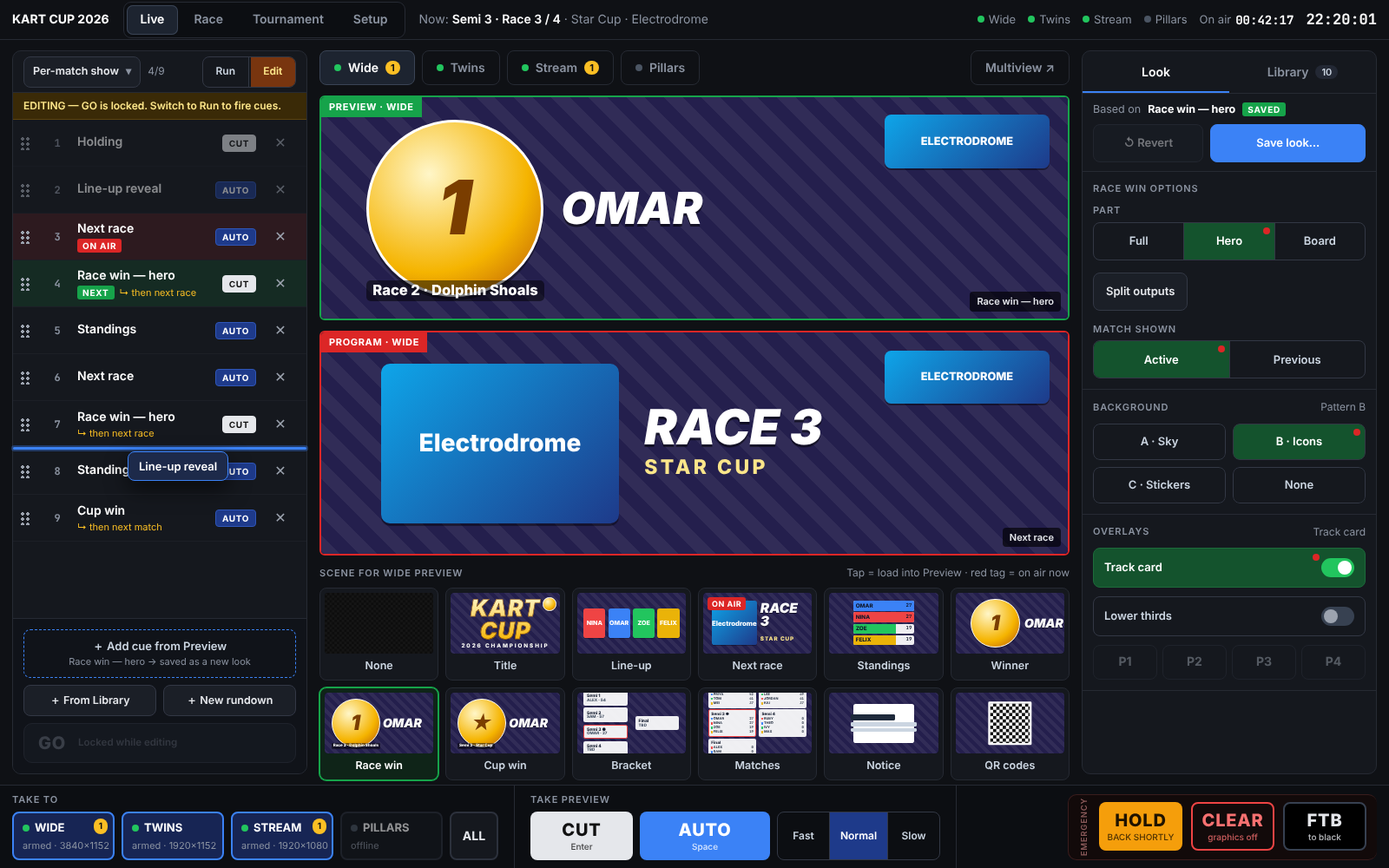
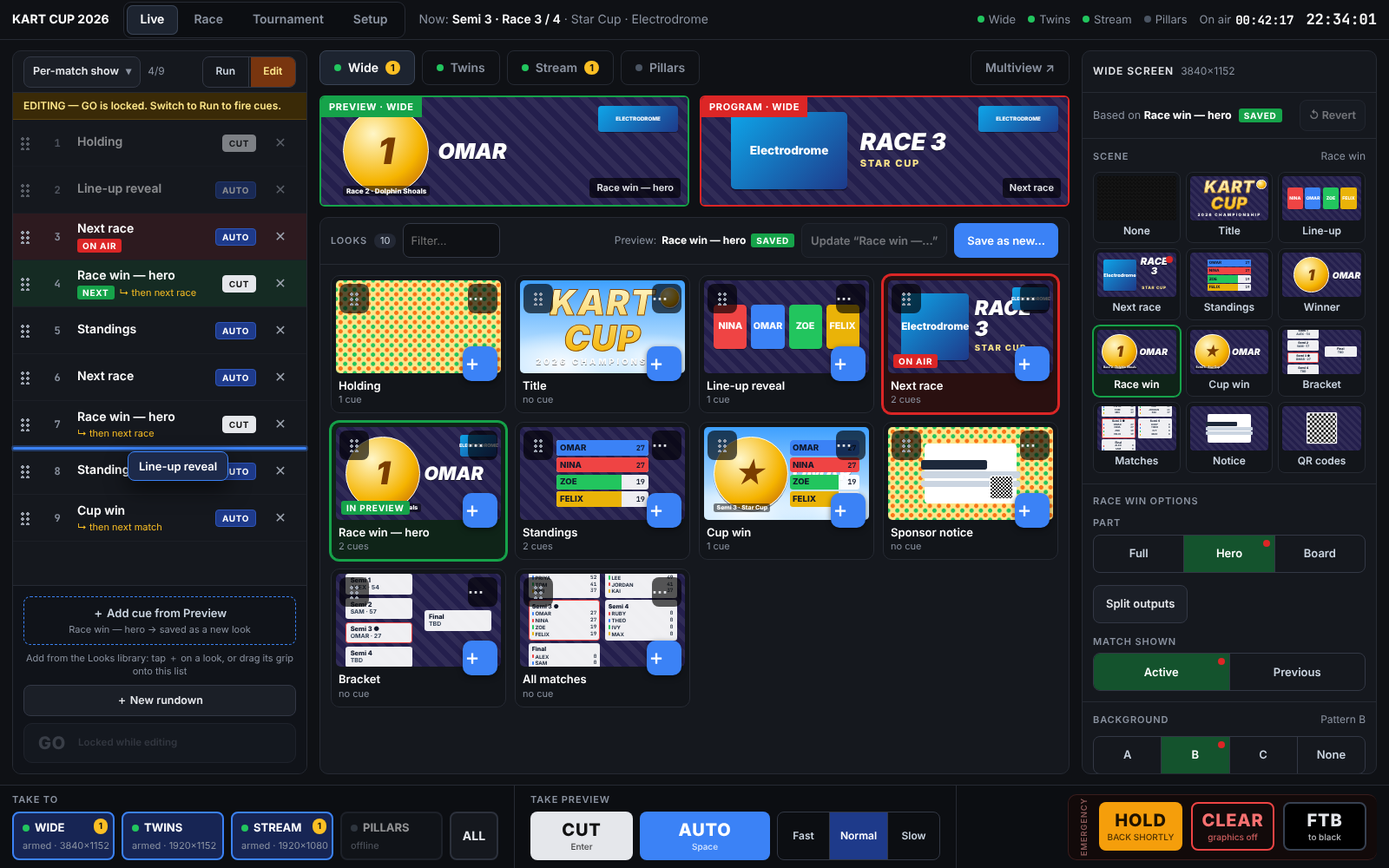
Control demo: Option A puts the Looks library under the monitors and the per-screen scene editor on the right
- centre: output tabs, Preview/Program side by side, then the Looks library (filter, Preview Modified/Saved, two-tap Update, Save as new, inline manage bar)
- right: selected screen's scenes, the chosen scene's options, Background, Overlays; save form swaps in and out
- tests, capture script, guide text and docs updated (110 checks)

Claude-Session: https://claude.ai/code/session_01AQgEcSFu68EFYDYZBkP3T7

diff --git a/docs/mockups/ui/demo/layout-a.js b/docs/mockups/ui/demo/layout-a.js
@@ -1,5 +1,5 @@
 'use strict'
-/* Layout A — Rundown-first: rundown rail (left) · monitors + scene strip (centre) · Look / Library / Save inspector (right). */
+/* Layout A — Rundown-first: rundown rail (left) · monitors + Looks library (centre) · this screen's scenes and their options (right). */
 
 const takeLbl = (t) => (t === 'cut' ? 'CUT' : t === 'auto' ? 'AUTO' : 'RECALL')
 const AFTERS = [['', 'Nothing'], ['nextRace', 'Then next race'], ['nextMatch', 'Then next match'], ['resetStack', 'Then reset rundown']]
@@ -52,49 +52,53 @@ function rundownRail() {
     ? `<div class="gofoot"><button class="go ${stby ? '' : 'off'}" data-act="go" ${stby ? '' : 'disabled'}><span class="gl">GO</span><span class="gt"><small>${stby ? `Fires cue ${r.pvw + 1} · ${takeLbl(stby.take)}` : 'End of rundown'}</small><b>${stby ? esc(lookById(stby.lookId)?.name ?? '') : 'Rewind to start again'}</b></span><kbd>G</kbd></button>
         <div class="gnav"><button class="btn sm" data-act="back">◀ Back</button><button class="btn sm" data-act="skip">Skip ▶</button><button class="btn sm" data-act="rewind">Rewind</button></div></div>`
     : `<div class="gofoot"><button class="btn ghost addprev" data-act="addprev"><span>＋ Add cue from Preview</span><span class="dim sm">${esc(lookById(S.loadedLookId)?.name ?? 'New look')}${isModified() ? ' · modified' : ''} → saved as a new look</span></button>
-        <div class="gnav" style="grid-template-columns:1fr 1fr"><button class="btn sm" data-act="rtab" data-t="library">＋ From Library</button><button class="btn sm" data-act="rdnew">＋ New rundown</button></div>
+        <div class="dim sm" style="text-align:center">Add from the Looks library: tap ＋ on a look, or drag its grip onto this list</div><button class="btn sm" data-act="rdnew">＋ New rundown</button>
         <button class="go off" style="height:46px" disabled><span class="gl" style="font-size:20px">GO</span><span class="gt"><small>Locked while editing</small></span></button></div>`
   return `<section class="panel">${head}${S.rdMenu ? rdMenu() : ''}${S.edit ? '<div class="editbar">EDITING — GO is locked. Switch to Run to fire cues.</div>' : ''}<div class="grow rdlist" data-drop="rundown" style="overflow:auto;position:relative">${rows}</div>${foot}</section>`
 }
 
-/* ── centre ── */
+/* ── centre: monitors, then the Looks library (saved presets) ── */
+const trunc = (s, n = 12) => (s.length > n ? s.slice(0, n) + '…' : s)
+function manageBar(l) {
+  const n = usedBy(l.id), del = S.confirm === 'del:' + l.id
+  return `<div class="ph libh manage"><b class="mname">${S.libRename === l.id ? `<input class="field inp sm" data-in="libren" value="${esc(l.name)}" maxlength="40" aria-label="Look name">` : esc(l.name)}</b><span class="dim sm">${n ? `in ${n} cue${n > 1 ? 's' : ''}` : 'not in a rundown'}</span>
+    <span class="mact"><button class="btn sm" data-act="libren" data-id="${l.id}">${S.libRename === l.id ? 'Save name' : 'Rename'}</button><button class="btn sm" data-act="libdup" data-id="${l.id}">Duplicate</button><button class="btn sm" data-act="libadd" data-id="${l.id}">＋ Add as cue</button>
+    <button class="btn sm ${del ? 'amberb' : 'danger'}" data-act="libdel" data-id="${l.id}">${del ? `Tap again${n ? ` · ${n} cue${n > 1 ? 's' : ''}` : ''}` : 'Delete'}</button><button class="btn sm acc" data-act="libmenu" data-id="${l.id}">Done</button></span></div>`
+}
+function libraryPanel() {
+  const look = lookById(S.loadedLookId), mod = isModified(), used = look ? usedBy(look.id) : 0
+  const f = S.libFilter.trim().toLowerCase(), list = S.looks.filter((l) => l.name.toLowerCase().includes(f)), menuLook = S.libMenu ? lookById(S.libMenu) : null
+  const upd = S.confirm === 'upd'
+    ? `<button class="btn amberb updb" data-act="upd"><span>Tap again to overwrite<br><small>affects ${used} cue${used === 1 ? '' : 's'}</small></span></button>`
+    : `<button class="btn updb" data-act="upd" ${look && mod ? '' : 'disabled'}>Update “${esc(trunc(look?.name ?? '', 10))}”</button>`
+  const head = menuLook ? manageBar(menuLook)
+    : `<div class="ph libh"><span class="lab">Looks</span><span class="dim cnt">${S.looks.length}</span><input class="field inp sm libf" data-in="libfilter" placeholder="Filter…" value="${esc(S.libFilter)}" aria-label="Filter looks">
+      <span class="libst">Preview: <b>${esc(look?.name ?? 'unsaved')}</b> ${mod ? '<span class="tag mod">● MODIFIED</span>' : '<span class="tag pvw">SAVED</span>'}</span>${upd}<button class="btn acc" data-act="saveopen">Save as new…</button></div>`
+  const tiles = list.map((l) => { const pvw = l.id === S.loadedLookId, pgm = l.id === S.programLookId, n = usedBy(l.id)
+    return `<div class="ltile ${pvw ? 'inpvw' : ''} ${pgm ? 'airtile' : ''} ${S.libMenu === l.id ? 'managing' : ''}"><button class="ltb" data-act="loadlook" data-id="${l.id}" aria-label="Load ${esc(l.name)} into Preview">${thumb(l, pgm ? '<span class="tag pgm">ON AIR</span>' : pvw ? '<span class="tag pvw">IN PREVIEW</span>' : '')}<span class="ltn">${esc(l.name)}</span><span class="lsub">${n ? `${n} cue${n > 1 ? 's' : ''}` : 'no cue'}</span></button>
+      <span class="gripc" data-drag="look:${l.id}" aria-label="Drag ${esc(l.name)} onto the rundown"><i></i></span><button class="lmore" data-act="libmenu" data-id="${l.id}" aria-label="Manage ${esc(l.name)}">⋯</button>${S.edit ? `<button class="ladd" data-act="libadd" data-id="${l.id}" aria-label="Add ${esc(l.name)} as a cue">＋</button>` : ''}</div>` }).join('')
+  return `<section class="panel libp">${head}<div class="grow libgrid">${tiles || '<div class="empty" style="grid-column:1/-1"><b>No looks yet</b><span>Set up Preview with the scene editor, then tap “Save as new…”.</span></div>'}</div></section>`
+}
 function centreA() {
-  const o = out(S.outSel), l = S.layers[o.id], pg = S.program[o.id]?.layers ?? blank()
-  const tiles = SCENES.map(([id, label]) => `<button class="scn ${l.scene === id ? 'sel' : ''} ${pg.scene === id ? 'live' : ''}" data-act="layer" data-k="scene" data-v="${id}"><div class="th">${gfx({ ...l, scene: id, bg: id === 'none' ? 'none' : l.bg, track: false, lt: false })}</div><span class="lb">${label}</span></button>`).join('')
-  return `<section class="centre">${outTabs()}${monitorsBlock()}<div class="scenes-h"><span class="lab">Scene for ${o.name} preview</span><span class="dim" style="margin-left:auto;font-size:12px">Tap = load into Preview · red tag = on air now</span></div><div class="scenes">${tiles}</div>${o.kind !== 'wide' ? logPanel() : ''}</section>`
+  const o = out(S.outSel)
+  return `<section class="centre">${outTabs()}<div class="pair">${monitor('pv', o)}${monitor('pg', o)}</div>${libraryPanel()}</section>`
 }
 
-/* ── inspector ── */
-function lookTabA() {
-  const l = S.layers[S.outSel], pg = S.program[S.outSel]?.layers ?? blank(), look = lookById(S.loadedLookId), mod = isModified()
-  const so = sceneOptions()
-  return `<div class="stat2"><div class="l1">Based on <b>${esc(look?.name ?? 'nothing yet')}</b>${mod ? '<span class="tag mod">● MODIFIED</span>' : '<span class="tag pvw">SAVED</span>'}</div>
-      <div class="l2"><button class="btn" data-act="revert" ${look && mod ? '' : 'disabled'}>↺ Revert</button><button class="btn acc" data-act="saveopen">Save look…</button></div></div>
+/* ── right bar: the screen's scenes, then the options for the chosen scene ── */
+function sceneEditorA() {
+  const o = out(S.outSel), l = S.layers[o.id], pg = S.program[o.id]?.layers ?? blank(), look = lookById(S.loadedLookId), mod = isModified(), so = sceneOptions()
+  const scenes = SCENES.map(([id, label]) => `<button class="scb ${l.scene === id ? 'sel' : ''} ${pg.scene === id ? 'livedot' : ''}" data-act="layer" data-k="scene" data-v="${id}" aria-pressed="${l.scene === id}"><span class="sct"><span class="th">${gfx({ ...l, scene: id, bg: id === 'none' ? 'none' : l.bg, track: false, lt: false })}</span></span><span class="scl">${label}</span></button>`).join('')
+  return `<section class="panel scenep"><div class="ph"><span class="lab">${esc(o.name)} screen</span><span class="dim" style="font-size:12px">${o.fmt}</span></div>
+    <div class="stat3"><span>Based on <b>${esc(look?.name ?? 'nothing yet')}</b></span>${mod ? '<span class="tag mod">● MODIFIED</span>' : '<span class="tag pvw">SAVED</span>'}<button class="btn sm" style="margin-left:auto" data-act="revert" ${look && mod ? '' : 'disabled'}>↺ Revert</button></div>
     <div class="grow" style="overflow:auto">
-      ${so.length ? sectionHtml(`${SCENE_NAME[l.scene]} options`, '', so.map(([k, h]) => `<div class="optrow"><span class="lab">${k}</span>${h}</div>`).join('')) : ''}
-      ${sectionHtml('Background', l.bg === 'none' ? 'None' : 'Pattern ' + l.bg, `<div class="grid2">${BGS.map(([v, t]) => `<div class="seg" style="border:0">${opt('layer', 'bg', v, t, l.bg, 'style="border:1px solid var(--ui-field);border-radius:8px"')}</div>`).join('')}</div>`)}
+      ${sectionHtml('Scene', SCENE_NAME[l.scene], `<div class="scgrid2">${scenes}</div>`)}
+      ${l.scene === 'none' ? '' : sectionHtml(`${SCENE_NAME[l.scene]} options`, '', so.length ? so.map(([k, h]) => `<div class="optrow"><span class="lab">${k}</span>${h}</div>`).join('') : '<div class="dim" style="font-size:12px">No extra options for this scene.</div>')}
+      ${sectionHtml('Background', l.bg === 'none' ? 'None' : 'Pattern ' + l.bg, `<div class="seg bgseg">${BGS.map(([v, t]) => opt('layer', 'bg', v, t.split(' ')[0], l.bg)).join('')}</div>`)}
       ${sectionHtml('Overlays', [l.track && 'Track card', l.lt && 'Lower thirds'].filter(Boolean).join(' · ') || 'none',
-        `${tgl('layerflip', 'track', 'Track card', l.track, pg.track)}${tgl('layerflip', 'lt', 'Lower thirds', l.lt, pg.lt)}${out(S.outSel).kind !== 'twin' ? `<div class="chips4">${[0, 1, 2, 3].map((i) => `<button class="${l.lt && l.ltp.includes(i) ? 'sel' : ''} ${l.lt ? '' : 'dis'}" data-act="ltp" data-i="${i}">P${i + 1}</button>`).join('')}</div>` : ''}`)}
-    </div>`
+        `<div class="grid2">${tgl('layerflip', 'track', 'Track card', l.track, pg.track)}${tgl('layerflip', 'lt', 'Lower thirds', l.lt, pg.lt)}</div>${o.kind !== 'twin' ? `<div class="chips4">${[0, 1, 2, 3].map((i) => `<button class="${l.lt && l.ltp.includes(i) ? 'sel' : ''} ${l.lt ? '' : 'dis'}" data-act="ltp" data-i="${i}">P${i + 1}</button>`).join('')}</div>` : ''}`)}
+    </div></section>`
 }
-function libTabA() {
-  const look = lookById(S.loadedLookId), mod = isModified(), used = look ? usedBy(look.id) : 0
-  const upd = S.confirm === 'upd'
-    ? `<button class="btn amberb" data-act="upd"><span>Tap again to overwrite<br><small>affects ${used} cue${used === 1 ? '' : 's'}</small></span></button>`
-    : `<button class="btn" data-act="upd" ${look && mod ? '' : 'disabled'}>Update “${esc((look?.name ?? '').slice(0, 11))}${(look?.name ?? '').length > 11 ? '…' : ''}”</button>`
-  const f = S.libFilter.trim().toLowerCase(), list = S.looks.filter((l) => l.name.toLowerCase().includes(f))
-  const cards = list.map((l) => { const pvw = l.id === S.loadedLookId, pgm = l.id === S.programLookId, n = usedBy(l.id), menu = S.libMenu === l.id
-    return `<div class="look ${pvw ? 'inpvw' : ''} ${pgm ? 'onair' : ''}"><span class="gripc" data-drag="look:${l.id}" aria-label="Drag to the rundown"><i></i></span>
-      <button class="lthumb" data-act="loadlook" data-id="${l.id}" aria-label="Load ${esc(l.name)} into Preview">${thumb(l, pgm ? '<span class="tag pgm">ON AIR</span>' : pvw ? '<span class="tag pvw">IN PREVIEW</span>' : '')}</button>
-      <div class="lm" data-act="loadlook" data-id="${l.id}">${S.libRename === l.id ? `<input class="field inp sm" data-in="libren" value="${esc(l.name)}" maxlength="40">` : `<b>${esc(l.name)}</b>`}<small>${n ? `In ${n} cue${n > 1 ? 's' : ''}` : 'Not in a rundown'}</small></div>
-      ${menu ? `<div class="manage"><button class="btn sm" data-act="libren" data-id="${l.id}">${S.libRename === l.id ? 'Save name' : 'Rename'}</button><button class="btn sm" data-act="libdup" data-id="${l.id}">Duplicate</button><button class="btn sm ${S.confirm === 'del:' + l.id ? 'amberb' : 'danger'}" data-act="libdel" data-id="${l.id}">${S.confirm === 'del:' + l.id ? `Tap again${n ? ` · ${n} cue${n > 1 ? 's' : ''}` : ''}` : 'Delete'}</button><button class="btn sm" data-act="libmenu" data-id="${l.id}">Done</button></div>`
-        : `<div class="la"><button class="btn" data-act="libadd" data-id="${l.id}">＋ Cue</button><button class="btn" data-act="libmenu" data-id="${l.id}" aria-label="Manage ${esc(l.name)}">⋯</button></div>`}</div>` }).join('')
-  return `<div class="curcard ${mod ? '' : 'clean'}"><div class="r1"><div class="th">${gfx(S.layers.wide)}</div><div><b>Preview now</b> ${mod ? '<span class="tag mod">● MODIFIED</span>' : '<span class="tag pvw">SAVED</span>'}<small>${look ? `Based on “${esc(look.name)}”<br>Used by ${used} cue${used === 1 ? '' : 's'}` : 'Not saved yet'}</small></div></div>
-      <div class="r2">${upd}<button class="btn acc" data-act="saveopen">Save as new…</button></div></div>
-    <input class="field inp search" data-in="libfilter" placeholder="Filter ${S.looks.length} looks…" value="${esc(S.libFilter)}" aria-label="Filter looks">
-    <div class="grow" style="overflow:auto"><div class="looks">${cards || '<div class="empty" style="grid-column:1/-1"><b>No looks yet</b><span>Set up Preview the way you want it, then tap “Save as new…”.</span></div>'}</div></div>
-    <div class="hint">Tap a look to load it into Preview — nothing goes to air until you Take or GO. Drag the grip onto the rundown to add a cue.</div>`
-}
+
 function savePanel() {
   const f = S.saveForm, g = groupsFromScope(f.scope8), r = R()
   return `<div class="ph"><button class="btn sm" data-act="savecancel">← Back</button><b style="color:#fff">Save look</b></div>
@@ -111,7 +115,7 @@ function savePanel() {
 }
 function inspectorA() {
   if (S.saveOpen) return `<section class="panel">${savePanel()}</section>`
-  return `<section class="panel"><div class="tabs2"><button data-act="rtab" data-t="look" class="${S.rtab === 'look' ? 'on' : ''}">Look</button><button data-act="rtab" data-t="library" class="${S.rtab === 'library' ? 'on' : ''}">Library <span class="ct">${S.looks.length}</span></button></div>${S.rtab === 'look' ? lookTabA() : libTabA()}</section>`
+  return sceneEditorA()
 }
 
 /* ── workspace dispatch (A) ── */

diff --git a/docs/mockups/ui/demo/main.js b/docs/mockups/ui/demo/main.js
@@ -91,7 +91,7 @@ function act(a, d) {
     case 'seqmode': S.seqEdit = d.m === 'edit'; S.selCue = null; S.advCue = null; S.rdMenu = false; break
     case 'rdmenu': S.rdMenu = !S.rdMenu; S.rdRename = null; break
     case 'rdpick': S.rundownId = d.id; S.rdMenu = false; S.openCue = null; S.selCue = null; break
-    case 'rdnew': createRundown(); S.rdMenu = false; S.edit = true; S.seqEdit = true; toast('New rundown — add cues from Preview or the Library', true); break
+    case 'rdnew': createRundown(); S.rdMenu = false; S.edit = true; S.seqEdit = true; toast('New rundown — add cues from Preview or the Looks library', true); break
     case 'rdrename': S.rdRename = r.name; break
     case 'rdrenamego': if ((S.rdRename ?? '').trim()) { pushUndo('rename rundown'); r.name = S.rdRename.trim() } S.rdRename = null; break
     case 'rddel': if (S.rundowns.length > 1 && twoTap('rddel')) { pushUndo('delete rundown'); S.rundowns = S.rundowns.filter((x) => x.id !== r.id); S.rundownId = S.rundowns[0].id; S.rdMenu = false; toast(`Deleted rundown “${r.name}”`, true) } break
@@ -111,7 +111,6 @@ function act(a, d) {
     case 'rec': S.rec = !S.rec; if (S.rec) toast('Recording — tap looks in the bank to append them as cues'); break
 
     /* looks and the inspector (A) */
-    case 'rtab': S.rtab = d.t; S.saveOpen = false; break
     case 'revert': { const look = lookById(S.loadedLookId); if (look) { pushUndo('revert'); applyLook(look, { layers: true, armed: true }); toast(`Preview reverted to “${look.name}”`, true) } break }
     case 'saveopen': S.saveForm = { name: suggestName(), from: 'pvw', scope8: scopeFromGroups(DEFAULT_GROUPS), adv: false, addCue: false, take: 'auto' }; S.saveOpen = true; break
     case 'savecancel': S.saveOpen = false; break
@@ -125,7 +124,7 @@ function act(a, d) {
       const f = S.saveForm; pushUndo('save look')
       const look = createLook(f.name.trim(), f.from, null, { scope8: f.scope8 }); let msg = `Saved look “${look.name}”`
       if (f.addCue) { const { at } = addCue(look.id, null, { take: f.take === 'none' ? null : f.take }); msg += ` and added as cue ${at + 1}` }
-      S.saveOpen = false; S.rtab = 'library'; toast(msg, true); break
+      S.saveOpen = false; toast(msg, true); break
     }
     case 'upd': { const look = lookById(S.loadedLookId); if (look && twoTap('upd')) updateLook(look.id, 'pvw'); break }
     case 'loadlook': loadLook(d.id); S.libMenu = null; break
@@ -149,7 +148,7 @@ function act(a, d) {
     case 'loadslot': { const id = S.bank.pages[S.bank.page].slots[+d.i]; if (id) { loadLook(id); if (S.rec) { pushUndo('record cue'); const { at } = addCue(id); toast(`Recorded cue ${at + 1}: ${lookById(id).name}`, true) } } break }
     case 'slotmenu': S.slotMenu = S.slotMenu === +d.i ? null : +d.i; S.libRename = null; S.confirm = null; break
     case 'slotren': { const id = S.bank.pages[S.bank.page].slots[+d.i]; if (S.libRename === id) { renameLook(id, S.libRenVal ?? ''); S.libRename = null } else { S.libRename = id; S.libRenVal = lookById(id).name } break }
-    case 'slotclear': pushUndo('clear slot'); S.bank.pages[S.bank.page].slots[+d.i] = null; S.slotMenu = null; toast(`Cleared slot ${+d.i + 1} — the look is still in the Library`, true); break
+    case 'slotclear': pushUndo('clear slot'); S.bank.pages[S.bank.page].slots[+d.i] = null; S.slotMenu = null; toast(`Cleared slot ${+d.i + 1} — the look is still in the Looks library`, true); break
     case 'more': S.moreScenes = !S.moreScenes; break
     case 'deck': S.modal = 'deck'; break
   }
@@ -287,10 +286,11 @@ document.addEventListener('pointercancel', () => dragEnd(false))
 const GUIDE = {
   A: [
     ['Fire the show', 'Tap cue 5 “Standings” in the rundown: it loads into Preview (green). Press <kbd>G</kbd> or the big GO: it goes to Program with the cue’s Cut/Auto and the next cue loads. Cue 7 has “then next race”, the last cue “then next match”.'],
-    ['Change Preview, then save or update', 'Tap a different scene tile. Preview shows MODIFIED. Open <b>Library</b>: “Update …” needs two taps and says how many cues it affects; “Save as new…” opens the inline form. Try the Undo toast.'],
-    ['Build a rundown from what you see', 'Switch the rundown to <b>Edit</b>. “Add cue from Preview” saves a look and appends a cue in one tap. Drag a Library card’s grip onto the rundown, or tap “＋ Cue”. Drag a cue grip to reorder.'],
+    ['Pick scenes per screen', 'Pick a screen (Wide, Twins, Stream…) above the monitors. The right bar lists that screen’s scenes (Title, Line-up, Next race, Standings…), then the options for the chosen scene, then Background and Overlays. Everything lands in Preview first.'],
+    ['Looks library: load, update, save', 'The Looks tiles under the monitors are your saved presets. Tap one to load it into Preview (never Program). Change a scene or option and Preview shows MODIFIED: “Update …” needs two taps and says how many cues it affects, “Save as new…” opens the inline form. ⋯ on a tile renames, duplicates or deletes it. Try the Undo toast.'],
+    ['Build a rundown from what you see', 'Switch the rundown to <b>Edit</b>. “Add cue from Preview” saves a look and appends a cue in one tap. Drag a Looks tile’s grip onto the rundown, or tap its ＋. Drag a cue grip to reorder.'],
     ['Run a race', 'Open <b>Race</b>. Left: pick the live race and its map. Middle: tap each player’s finishing place (names and characters are editable here too). Right: the scoreboard updates as you tap. Then <b>Next race ▶</b>; after the last race the winner appears with <b>Next match ▶</b>.'],
-    ['Show the result on the graphics', 'The Race page never touches the graphics. Use the <b>Live</b> scene tiles (Race win, Standings, Cup win, Bracket, Matches). “Match shown: Previous” keeps the match you just finished on screen after you move on.'],
+    ['Show the result on the graphics', 'The Race page never touches the graphics. Use the scene picker on the <b>Live</b> page (Race win, Standings, Cup win, Bracket, Matches). “Match shown: Previous” keeps the match you just finished on screen after you move on.'],
     ['Set up a tournament', 'Open <b>Tournament</b>. The left outline lists each round: click one to edit its matches (tabs), players and results. The Final’s players fill automatically from the semis. <b>Overview</b> lists anything still to fix; <b>All ›</b> manages tournaments.'],
     ['Emergency and safety', 'Try HOLD, CLEAR and FTB. Keys: Space = AUTO, Enter = CUT, H, Shift+Esc, Shift+B, 1–4 arm outputs, Ctrl/Cmd+Z undo. Use “Simulate disconnect” above.'],
   ],

diff --git a/docs/mockups/ui/demo/demo.css b/docs/mockups/ui/demo/demo.css
@@ -43,7 +43,7 @@ button.field { text-align: left; width: 100%; cursor: pointer; }
 .lg { display: flex; gap: 10px; align-items: center; padding: 9px 12px; border-bottom: 1px solid #1c1f26; font-size: 12.5px; }
 .pill.cut { background: #e5e7eb; color: #111; border-color: #e5e7eb; } .pill.auto { background: #1e3a8a; color: #fff; border-color: #2f56b8; } .pill.none { color: var(--ui-muted); border-style: dashed; }
 .optrow { display: grid; gap: 6px; } .optrow + .optrow { margin-top: 4px; }
-.sec .optrow > .seg, .sec .optrow > .tgl { width: 100%; }
+.sec .optrow > .seg, .sec .optrow > .tgl, .sec .optrow > .btn { width: 100%; }
 .bb.hold.ison { box-shadow: 0 0 0 3px #fff; } .bb.ftb.ison { background: #fff; color: #000; border-color: #fff; }
 
 /* rundown rail */
@@ -276,3 +276,39 @@ button.field { text-align: left; width: 100%; cursor: pointer; }
 
 .sbrow.hdr .sbn, .sbrow.hdr .sbt { font: 600 10.5px var(--ui-font); letter-spacing: .08em; color: var(--ui-muted); } .sbrow.hdr .sbn { text-align: left; }
 .wincard .btn small { color: inherit; opacity: .8; }
+
+/* ── Option A: Looks library (centre) + per-screen scene editor (right) ── */
+.libp { flex: 1; min-height: 0; }
+.libh { height: 54px; gap: 8px; }
+.libh .btn { height: 40px; white-space: nowrap; }
+.libh .cnt { background: #232834; border-radius: 8px; padding: 1px 7px; color: #cbd5e1; font-size: 11px; }
+input.field.libf { width: 112px; flex: none; height: 40px; font-size: 13px; }
+.libst { margin-left: auto; display: flex; align-items: center; gap: 6px; font-size: 12px; color: var(--ui-muted); white-space: nowrap; min-width: 0; }
+.libst b { color: #fff; max-width: 124px; overflow: hidden; text-overflow: ellipsis; display: inline-block; vertical-align: bottom; }
+.updb { min-width: 126px; padding: 0 10px; line-height: 1.1; } .updb small { font-size: 10.5px; font-weight: 400; display: block; }
+.libgrid { display: grid; grid-template-columns: repeat(4, minmax(0, 1fr)); gap: 10px; padding: 12px; align-content: start; overflow: auto; min-height: 0; }
+.ltile { position: relative; border: 1px solid var(--ui-line); border-radius: 10px; background: var(--ui-panel-2); }
+.ltile.inpvw { border-color: var(--ui-preview); box-shadow: 0 0 0 2px var(--ui-preview); background: #0f2418; }
+.ltile.airtile { border-color: var(--ui-program); box-shadow: 0 0 0 2px var(--ui-program); background: #2a1010; }
+.ltile.airtile.inpvw { box-shadow: 0 0 0 2px var(--ui-program), 0 0 0 4px var(--ui-preview); }
+.ltile.managing { border-color: var(--ui-accent); box-shadow: 0 0 0 2px var(--ui-accent); }
+.ltb { display: block; width: 100%; padding: 5px 5px 4px; text-align: left; border-radius: 10px; }
+.ltb .th { aspect-ratio: 16/9; border-radius: 5px; overflow: hidden; position: relative; background: #000; }
+.ltb .th .tag { position: absolute; left: 6px; bottom: 6px; z-index: 4; }
+.ltn { display: block; padding: 6px 3px 0; color: #fff; font-weight: 600; font-size: 13px; white-space: nowrap; overflow: hidden; text-overflow: ellipsis; }
+.lsub { display: block; padding: 0 3px 3px; color: var(--ui-muted); font-size: 11px; }
+.ltile .gripc { position: absolute; left: 9px; top: 9px; z-index: 6; width: 34px; height: 34px; border-radius: 8px; background: rgba(0,0,0,.65); display: grid; place-items: center; }
+.lmore { position: absolute; right: 9px; top: 9px; z-index: 6; width: 34px; height: 34px; border-radius: 8px; background: rgba(0,0,0,.65); color: #e5e7eb; font-size: 18px; font-weight: 700; line-height: 1; }
+.ladd { position: absolute; right: 9px; bottom: 36px; z-index: 6; width: 40px; height: 40px; border-radius: 10px; background: var(--ui-accent); color: #fff; font-size: 22px; font-weight: 700; box-shadow: 0 2px 6px rgba(0,0,0,.5); }
+.manage { gap: 10px; } .manage .mname { color: #fff; font-size: 15px; max-width: 200px; overflow: hidden; text-overflow: ellipsis; white-space: nowrap; } .manage .mname .inp { width: 190px; }
+.mact { margin-left: auto; display: flex; gap: 6px; }
+.scenep .stat3 { display: flex; align-items: center; gap: 8px; padding: 8px 12px; border-bottom: 1px solid var(--ui-line); font-size: 12.5px; color: var(--ui-muted); flex: none; } .stat3 b { color: #fff; }
+.scenep .ph .lab { color: #e5e7eb; font-size: 12px; }
+.scgrid2 { display: grid; grid-template-columns: repeat(3, minmax(0, 1fr)); gap: 6px; }
+.scb { position: relative; border: 1px solid var(--ui-line); border-radius: 8px; background: var(--ui-panel-2); padding: 4px; display: block; text-align: center; }
+.scb .th { aspect-ratio: 16/9; border-radius: 4px; overflow: hidden; position: relative; background: #000; display: block; }
+.scb .sct { display: block; } .scb .scl { display: block; padding: 4px 0 1px; font-size: 12px; font-weight: 600; color: #cbd5e1; white-space: nowrap; overflow: hidden; text-overflow: ellipsis; }
+.scb.sel { border-color: var(--ui-preview); box-shadow: 0 0 0 1px var(--ui-preview); background: #0f2418; } .scb.sel .scl { color: #fff; }
+.scb.livedot::after { top: 8px; right: 8px; }
+.bgseg button { padding: 0 4px; }
+.stat3 > span:first-child { min-width: 0; overflow: hidden; text-overflow: ellipsis; white-space: nowrap; } .stat3 .tag, .stat3 .btn { flex: none; }

diff --git a/docs/mockups/ui/demo/model.js b/docs/mockups/ui/demo/model.js
@@ -149,7 +149,7 @@ function seed() {
   const cues = [cue('l1', 'cut'), cue('l3', 'auto'), cue('l4', 'auto'), cue('l5', 'cut', 'nextRace'), cue('l6', 'auto'), cue('l4', 'auto'), cue('l5', 'cut', 'nextRace'), cue('l6', 'auto'), cue('l7', 'auto', 'nextMatch')]
   const slots = (...ids) => [...ids, ...Array(SLOTS - ids.length).fill(null)]
   const s = {
-    layout: 'A', view: 'live', rtab: 'look', outSel: 'wide', snav: 'Outputs', tpage: 'overview', tmatch: 'm3', tnew: null, trename: null, matchRefSel: 'active', matchSetSel: 'all',
+    layout: 'A', view: 'live', outSel: 'wide', snav: 'Outputs', tpage: 'overview', tmatch: 'm3', tnew: null, trename: null, matchRefSel: 'active', matchSetSel: 'all',
     looks, rundowns: [{ id: 'r1', name: 'Per-match show', cues, pgm: 2, pvw: 3 }], rundownId: 'r1',
     bank: { page: 1, pages: [{ name: 'Pre-show', slots: slots('l1', 'l2', 'l3', 'l8') }, { name: 'Races', slots: slots('l4', 'l5', 'l6', 'l7') }, { name: 'Tournament', slots: slots('l9', 'l10') }, { name: 'Sponsors', slots: slots('l8') }] },
     layers: {}, program: {}, armed: [...base.armed], speed: 'normal', mattify: true, event: clone(base.style),

diff --git a/docs/control-ui-overhaul.md b/docs/control-ui-overhaul.md
@@ -34,14 +34,14 @@ It is a show-control surface, not a dashboard. These came from the "production a
 
 `a-live.png`, `a-library.png`, `a-libconfirm.png`, `a-save.png`, `a-edit.png`, `a-drag.png`, `a-data.png`, `a-setup.png`
 
-The cue list is the spine of the page and is always visible. Layout: **Rundown (left) · monitors + scene strip (centre) · Look / Library inspector (right) · slim transport**. Workspaces collapse from 7 tabs to **Live · Show data · Setup**.
+The cue list is the spine of the page and is always visible. Layout (revised after review, see *Round 3*): **Rundown (left) · monitors + Looks library (centre) · this screen's scenes and options (right) · slim transport**. Workspaces collapse from 7 tabs to **Live · Show data · Setup**.
 
 - **Run / Edit lock** on the rundown. Run rows are glanceable: number, name, CUT/AUTO, ON AIR (red) / NEXT (green). A big **GO** sits at the foot of the rail.
 - **Edit** shows drag handles, ✕ and an inline editor per cue (look, take, after, recall). The editor says *"Used by 2 cues"* with **Make unique**, replacing the silent global overwrite.
 - **Add cue from Preview** is one button; **Save look…** has "Also add to rundown as cue N".
 - **Save look** is an inline panel: name, Preview / On air, and 4 groups (Look, Outputs armed, Race & players, Scores) instead of 8 checkboxes. "Advanced" still exposes all 8.
-- **Library** tab: tap a look to load it to Preview; a pinned "Preview now · Modified" card offers *Update "X"* (two-tap) or *Save as new…*.
-- **Scene strip** (12 visual tiles) replaces the scene button row; the inspector only shows options for the current scene (Race win: Part, Match, Split).
+- **Looks library** (centre, under the monitors): the saved presets as a tile grid with a filter. Tap a tile to load it to Preview; the header shows *Preview: X · Modified/Saved* with *Update "X"* (two-tap) and *Save as new…*. ⋯ on a tile renames, duplicates or deletes it.
+- **Scene editor** (right): for the screen chosen above the monitors, 12 scene tiles (Title, Line-up, Next race, Standings…), then that scene's options (Race win: Part, Match shown, Split), then Background and Overlays.
 
 Best for: scripted run-of-show, one operator learning the page. Cost: biggest restructure of the page shell, but every existing panel (monitors, layers, show data) is reused.
 
@@ -122,7 +122,7 @@ Companion keeps working for A, C and D as long as existing commands are unchange
 
 Shared: Undo (toast and Ctrl/Cmd+Z) for loads, saves, overwrites, deletes, moves; two-tap for overwrite and delete; pointer-based drag and drop (works with a finger); keyboard map; a disconnect state that disables controls; on-air graphics keep the data they were taken with, so editing scores never changes Program.
 
-- **A:** several rundowns with an inline switcher; per-cue editor with tri-state recall override; Library filter, rename, duplicate, delete; drag a Library grip onto the rundown; twin and HD outputs show Preview and Program side by side with a "recent takes" log.
+- **A:** several rundowns with an inline switcher; per-cue editor with tri-state recall override; Looks filter, rename, duplicate, delete; drag a Looks tile's grip onto the rundown, or tap its ＋ in Edit; twin and HD outputs show Preview and Program side by side with a "recent takes" log.
 - **B:** bank pages (Pre-show, Races, Tournament, Sponsors); STORE with a two-tap overwrite; Edit bank (drag to swap, rename, clear, delete); REC to record a sequence; sequence Edit with a roomy cue editor; the bank page as a Stream Deck (5×3 keys = Companion page).
 
 ### Race page (shared by A and B)
@@ -133,7 +133,7 @@ Just three things, per your steer:
 2. **Players and result.** Each player's name and character are editable in place; tap a finishing place per player (a taken place moves, never duplicates); adjustment steppers. Everything saves as you tap, like the real results table.
 3. **Scoreboard.** Ranked table with per-race points, adjustments and totals. When the match is complete it shows the winner (tie-breaks noted) and **Next match ▶**.
 
-It does not touch the graphics and does not switch matches. Graphics scenes stay on **Live** (scene tiles; "Match shown: Previous" keeps a finished match on screen), and match switching lives on the Tournament Overview. Free play (no tournament) uses the same page.
+It does not touch the graphics and does not switch matches. Graphics scenes stay on **Live** (the scene picker on the right; "Match shown: Previous" keeps a finished match on screen), and match switching lives on the Tournament Overview. Free play (no tournament) uses the same page.
 
 ### Tournament workspace (shared by A and B)
 
@@ -163,6 +163,15 @@ Replaces today's single long scroll (picker, match list, setup, results, three c
 
 Screenshots: `docs/mockups/ui/demo/shots/`. Option A: `a-live`, `a-library-update`, `a-save`, `a-edit`, `a-drag`, `a-library-manage`, `a-twin`, `a-hold`, `a-disconnected`, `a-live-previous-match`. Race: `a-race-start`, `a-race-complete`, `a-race-winner`, `a-race-map-changed`, `a-race-freeplay`. Tournament: `a-tour-overview`, `a-tour-round`, `a-tour-final`, `a-tour-graphics`, `a-tour-library`, `a-tour-new-round`, `a-tour-overview-todo`, `a-setup`. Option B: `b-live`, `b-store`, `b-bank-edit`, `b-sequence-edit`, `b-deck`, `b-rundowns`.
 
+### Round 3: Option A, revised
+
+A was picked. Change requested: the old centre scene strip becomes the **Looks library** (saved presets), and the right bar becomes the **per-screen scene editor**. Done in the demo (`?layout=a`):
+
+- **Centre:** output tabs, Preview and Program side by side (Wide now sits side by side too, so the library has room), then the Looks grid. The library header carries the Preview state (*Modified / Saved*), *Update* and *Save as new…*.
+- **Right:** *Wide screen* / *Twins screen* / … follows the output tab. Scenes first, the chosen scene's options straight below (Reveal for Line-up, Part and Match shown for Race win / Cup win, QR for Notice), then Background and Overlays. A scene with no options says so. *Based on "X" · Modified · ↺ Revert* sits on top.
+- **Save as new…** swaps the right bar for the inline save form and back, so the library stays visible.
+- Trade-off: Wide monitors are about half the previous height (426 px wide each at 1600 px). Say if you would rather keep them large and scroll the library.
+
 ### Where this leaves the recommendation
 
 The Race and Tournament workspaces are identical in A and B, so the **Live layout choice is independent** and can be made last. A is still my pick for a scripted show; B wins if the operator already thinks in Stream Deck pages. A hybrid is natural: A's layout with the Library offered as a numbered bank (B's slots and STORE) so a look has the same position on screen and on the deck.
@@ -187,7 +196,7 @@ The graphics in the mockups are schematic stand-ins, not the real renderer.
 
 ## Open questions
 
-1. A, B, or the hybrid (A's layout, Library as a numbered bank)? The Live layout is the only thing that differs.
+1. ~~A, B, or the hybrid?~~ **A chosen.** Still open: should the Looks tiles also carry a bank number, so a look has the same position on screen and on the Stream Deck (the hybrid)?
 2. Touchscreen, or mouse and keyboard plus Stream Deck? That decides how strictly the 44px targets matter.
 3. Is the Race page scope right (race and map, players, scoreboard), and is it fine that only the winner state offers **Next match ▶**?
 4. Do you want the per-race **map override**, and optional **round names**?
